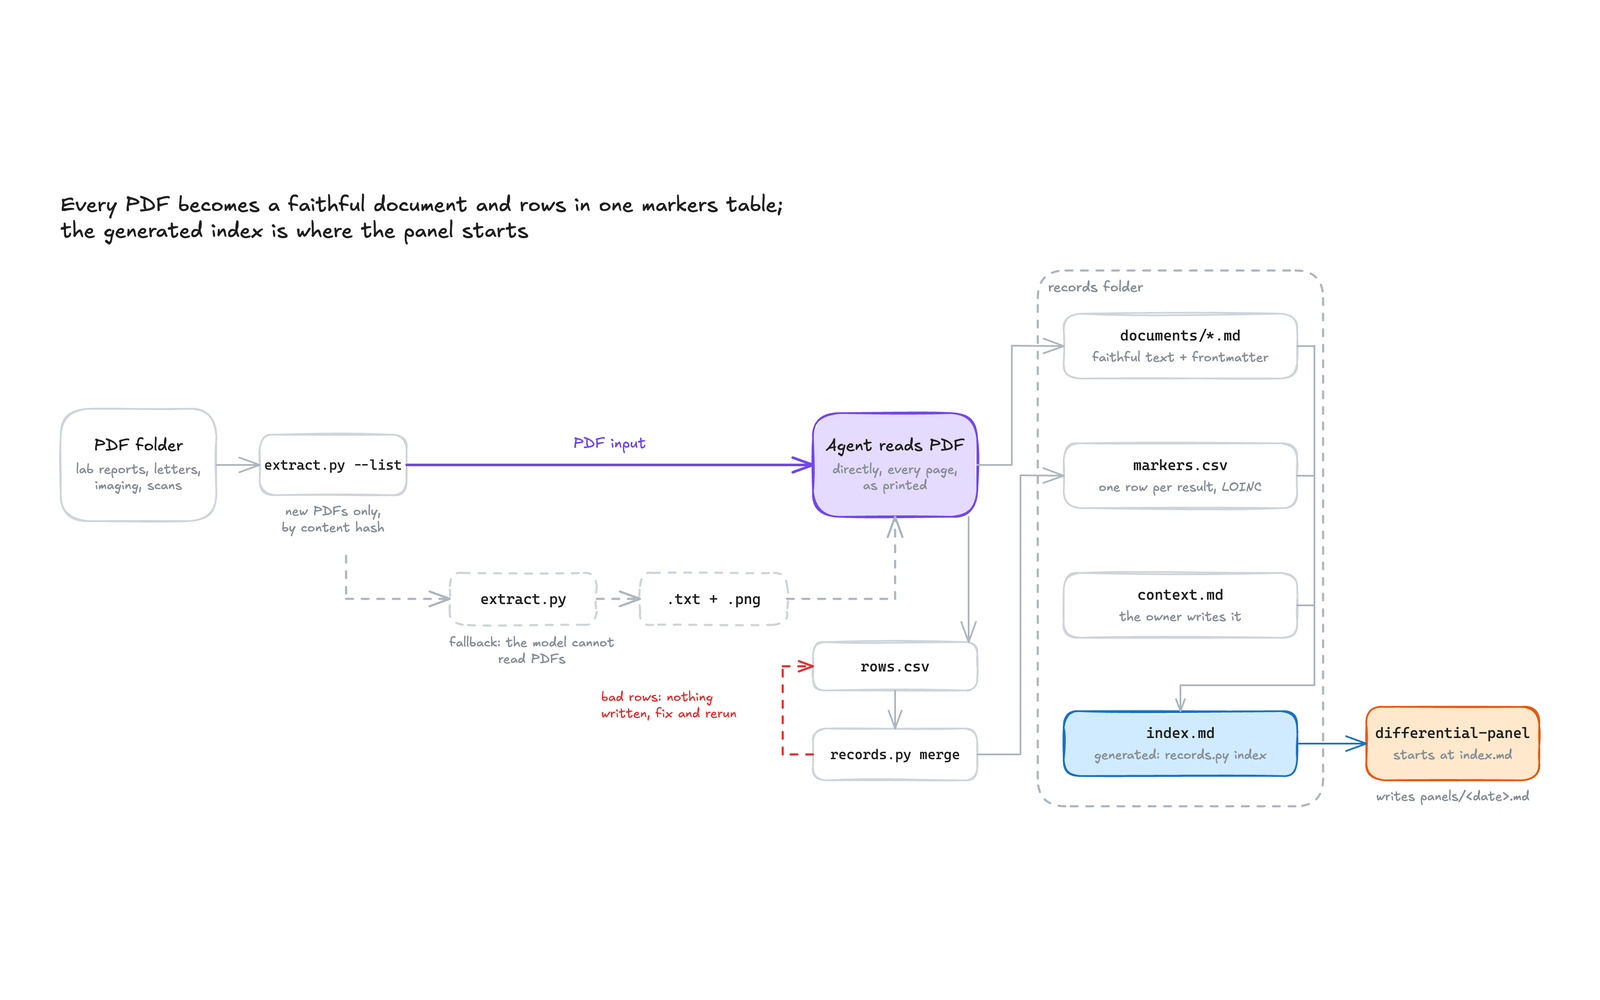
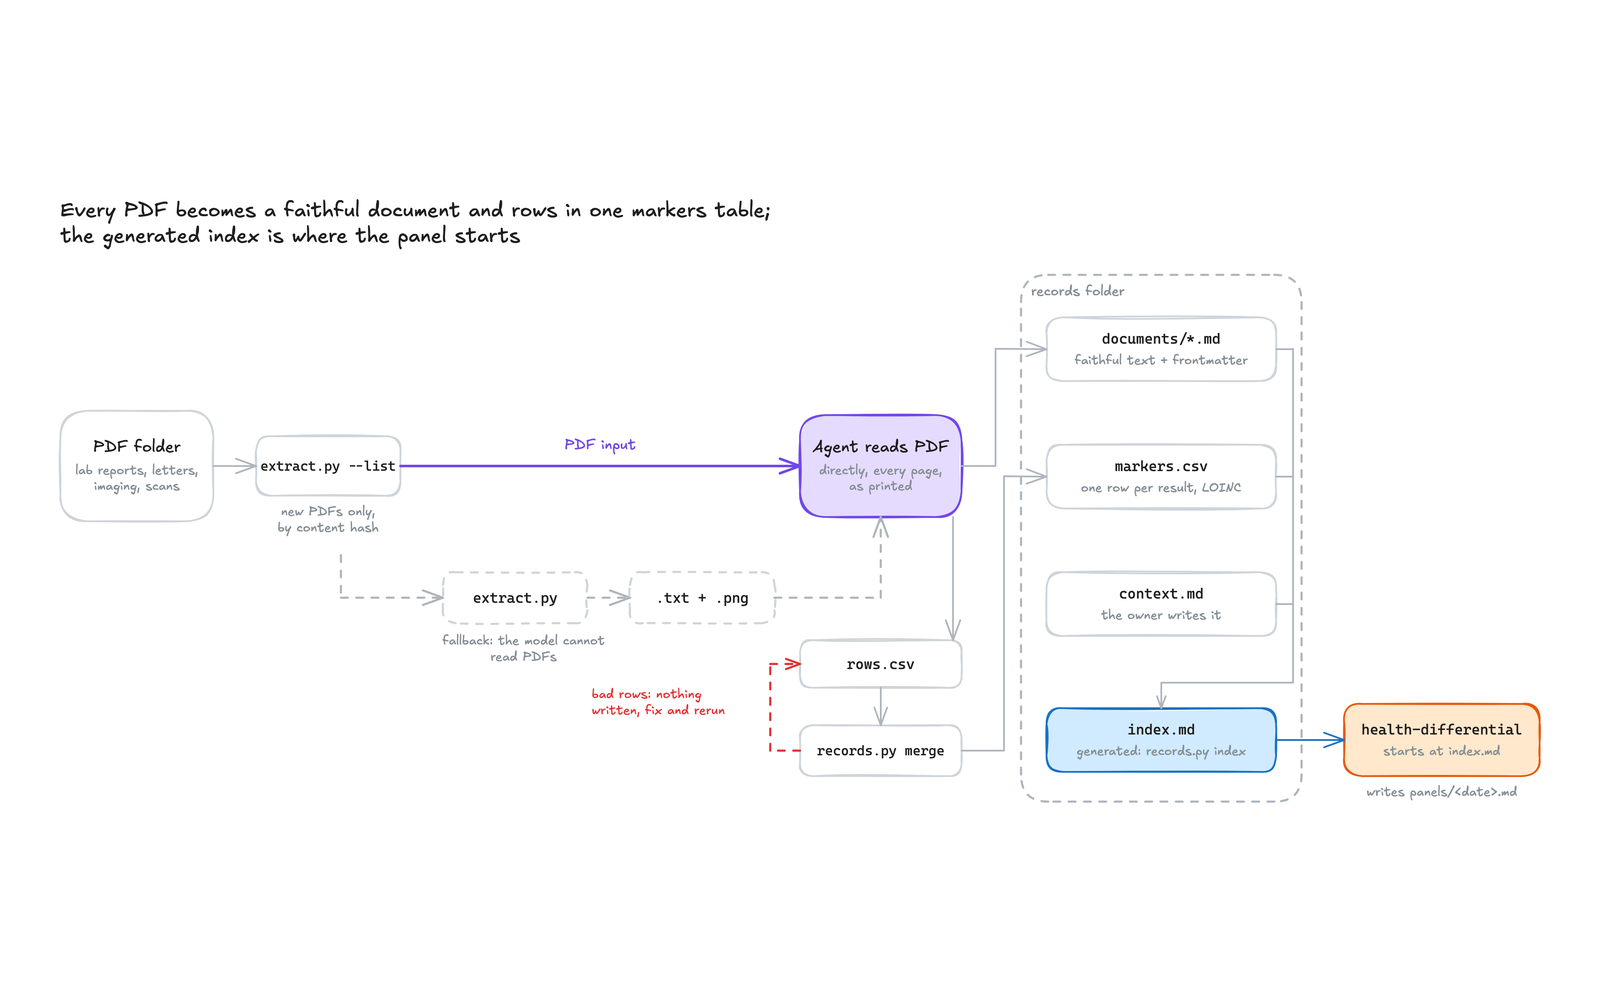
refactor: rename differential-panel to health-differential
Pairs it with health-records so the two health skills read as a set.

diff --git a/assets/diagrams/health.py b/assets/diagrams/health.py
@@ -1,7 +1,7 @@
-"""Generate the health-records and differential-panel figures as Excalidraw scenes.
+"""Generate the health-records and health-differential figures as Excalidraw scenes.
 
 Usage: python3 assets/diagrams/health.py
-Writes assets/health-records/pipeline.excalidraw and assets/differential-panel/panel.excalidraw.
+Writes assets/health-records/pipeline.excalidraw and assets/health-differential/panel.excalidraw.
 Render each to PNG as described in assets/diagrams/README.md.
 """
 
@@ -168,10 +168,10 @@ def pipeline():
         s.line([R(b), (fx + fw - 10, R(b)[1])], arrow=False)
     s.line([(fx + fw - 10, 177), (fx + fw - 10, 570), (T(idx)[0], 570), T(idx)], end=idx)
 
-    panel = s.card(1510, 595, 200, 85, "differential-panel", "starts at index.md", stroke=ORANGE,
+    panel = s.card(1510, 595, 230, 85, "health-differential", "starts at index.md", stroke=ORANGE,
                    fill=ORANGE_FILL, font=MONO, size=17)
     s.line([R(idx), L(panel)], BLUE, start=idx, end=panel)
-    s.text(1610, 690, "writes panels/<date>.md", 15, GREY, align="center")
+    s.text(1625, 690, "writes panels/<date>.md", 15, GREY, align="center")
     s.save(ASSETS / "health-records" / "pipeline.excalidraw")
 
 
@@ -241,7 +241,7 @@ def panel():
     s.line([B(rep), (1670, 620), (365, 620), B(brief)], BLUE, dashed=True, start=rep, end=brief)
     s.text(1018, 630, "next run: score each item confirmed, killed or still open;\nopen items join Already flagged",
            16, BLUE, align="center")
-    s.save(ASSETS / "differential-panel" / "panel.excalidraw")
+    s.save(ASSETS / "health-differential" / "panel.excalidraw")
 
 
 if __name__ == "__main__":

diff --git a/tests/health-records/test_health_records.py b/tests/health-records/test_health_records.py
@@ -307,7 +307,7 @@ def test_report_flag_disagreeing_with_range_is_kept_and_noted(records, tmp_path)
 def test_index_table_and_check(records, tmp_path):
     (records / "context.md").write_text("# Context\n")
     (records / "panels").mkdir()
-    (records / "panels" / "2025-06-01-differential-panel.md").write_text("# Panel\n")
+    (records / "panels" / "2025-06-01-health-differential.md").write_text("# Panel\n")
     run("records.py", "merge", records, stage(tmp_path / "a.csv", [
         {"original_name": "Ferritin", "value": v, "unit": "ug/l", "ref_range": "20-250", "date": d}
         for v, d in [("40", "2023-01-01"), ("31", "2024-01-01"), ("18", "2025-03-14")]
@@ -316,7 +316,7 @@ def test_index_table_and_check(records, tmp_path):
     index = (records / "index.md").read_text()
     assert "[context.md](context.md)" in index
     assert "| Ferritin | 18 L | ug/l | 20-250 | 2025-03-14 | 31 (2024-01-01); 40 (2023-01-01) | 3 | 1 |" in index
-    assert "(panels/2025-06-01-differential-panel.md)" in index
+    assert "(panels/2025-06-01-health-differential.md)" in index
     assert f"]({LETTER})" in index
 
     table = run("records.py", "table", records, "--name", "ferr").stdout

diff --git a/assets/diagrams/thumbs.py b/assets/diagrams/thumbs.py
@@ -15,7 +15,7 @@ FIGURES = {
     "hill-climb": ("score-steps.png", "pad"),
     "ui-climb": ("round.png", "pad"),
     "health-records": ("pipeline.png", "pad"),
-    "differential-panel": ("panel.png", "pad"),
+    "health-differential": ("panel.png", "pad"),
     "diagram-rebuild": ("loop.png", "pad"),
     "ios-app-cleanup": ("checklist.png", "top"),
 }

diff --git a/README.md b/README.md
@@ -57,8 +57,8 @@ Turn a diagram that exists only as an image into editable Excalidraw or <a href=
 Turn health PDFs, in any language, into faithful documents and a <code>markers.csv</code> of lab results for trends<br>Say <em>"add these lab results"</em>
 </td>
 <td width="50%" valign="top">
-<a href="./skills/differential-panel/"><img src="./assets/differential-panel/thumb.png" alt="differential-panel diagram"></a>
-<br><a href="./skills/differential-panel/"><strong><code>differential-panel</code></strong></a><br>
+<a href="./skills/health-differential/"><img src="./assets/health-differential/thumb.png" alt="health-differential diagram"></a>
+<br><a href="./skills/health-differential/"><strong><code>health-differential</code></strong></a><br>
 Three roles on models from two labs look for what your records have not flagged<br>Say <em>"run the panel"</em>
 </td>
 </tr>
@@ -89,11 +89,11 @@ Bulk-uninstall apps from a paired iPhone, picked from a checklist page with App 
 | ui-climb | ⭐ Recommended | 🌐 Two or more | `hill-climb` | Playwright for web, simulator tooling for native |
 | diagram-rebuild | ⭐ Recommended | One | [`diagram-design`](https://github.com/cathrynlavery/diagram-design) from cathrynlavery/diagram-design, for its `dd` track | `node`, `npm` and `python3`; its setup installs Playwright with Chromium, Excalidraw, React and esbuild into `~/.cache/diagram-rebuild` |
 | health-records | Not used | One that reads PDFs, or at least images | - | [`uv`](https://docs.astral.sh/uv/) |
-| differential-panel | ⭐ Recommended | 🌐 Two | `health-records` | [`uv`](https://docs.astral.sh/uv/) |
+| health-differential | ⭐ Recommended | 🌐 Two | `health-records` | [`uv`](https://docs.astral.sh/uv/) |
 | ios-app-cleanup | Not used | One | - | macOS with Xcode, `python3`, `curl`, and an iPhone paired with Developer Mode on |
 
 - 🔒 **Required**: the skill calls T3 Code's tools (`delegate_task`, `t3_thread_launch`, `t3_thread_read`, `t3_thread_send`, `schedule_task`) and does not run without them.
-- ⭐ **Recommended**: the skill uses T3 Code's tools when they are there and falls back to other harnesses. `hill-climb` builds candidates with Claude Code's `Agent`, another harness's subagents, or one at a time. `differential-panel` can run its seats with the labs' CLIs. `ui-climb` can score with lab CLIs (`codex exec`, `claude -p`, `gemini -p`) or API scripts. `diagram-rebuild` builds alone without subagents and runs its reviews through those CLIs.
+- ⭐ **Recommended**: the skill uses T3 Code's tools when they are there and falls back to other harnesses. `hill-climb` builds candidates with Claude Code's `Agent`, another harness's subagents, or one at a time. `health-differential` can run its seats with the labs' CLIs. `ui-climb` can score with lab CLIs (`codex exec`, `claude -p`, `gemini -p`) or API scripts. `diagram-rebuild` builds alone without subagents and runs its reviews through those CLIs.
 - 🌐 **Providers**: models from different labs share fewer defaults, so the skill needs access to models from that many providers. `council` reports a missing provider instead of substituting another model.
 
 </details>
@@ -110,14 +110,14 @@ npx skills add richard-better/agent-skills --skill council-debate
 
 Add `-g` to install globally instead of into the current project, and `-a <agent>` to target a specific agent (e.g. `claude-code`, `codex`).
 
-Install a skill's dependencies too: `ui-climb` with `hill-climb`, `differential-panel` with
+Install a skill's dependencies too: `ui-climb` with `hill-climb`, `health-differential` with
 `health-records`, `council-debate` with `council`, and `diagram-rebuild` with `diagram-design`:
 
 ```bash
 npx skills add richard-better/agent-skills --skill hill-climb
 npx skills add richard-better/agent-skills --skill ui-climb
 npx skills add richard-better/agent-skills --skill health-records
-npx skills add richard-better/agent-skills --skill differential-panel
+npx skills add richard-better/agent-skills --skill health-differential
 npx skills add t3dotgg/tstack --skill council
 npx skills add cathrynlavery/diagram-design
 ```

diff --git a/skills/health-differential/SKILL.md b/skills/health-differential/SKILL.md
@@ -1,9 +1,9 @@
 ---
-name: differential-panel
+name: health-differential
 description: Run a multi-model physician panel over a health records folder to find what the records have not already flagged. Use for "run the panel", "differential", "second look", "what are we missing", unexplained or multi-system symptoms, after new results land, or when a working diagnosis has stalled (a treatment trial failed, symptoms persist despite clean tests).
 ---
 
-# Differential panel
+# Health differential
 
 A virtual physician panel over one person's health records, modelled on Microsoft's MAI-DxO
 ("Sequential Diagnosis with Language Models", 2025). The gain in that work came from
@@ -31,7 +31,7 @@ The panel reads a folder in the `health-records` skill's layout. Run that skill 
 
 ## Output
 
-One file, `<records>/panels/YYYY-MM-DD-differential-panel.md`, with `-2`, `-3` added for a second
+One file, `<records>/panels/YYYY-MM-DD-health-differential.md`, with `-2`, `-3` added for a second
 run that day. Sections in this order:
 
 0. **Track record**: only when an earlier panel exists. For each of its New and Re-ranked items,
@@ -60,7 +60,7 @@ flagged list, so they are not reported as new a second time.
 ### 1. Case brief
 
 Read `index.md`, `context.md`, every document and `records.py table <records>`. Write
-`<scratch>/differential-panel/brief.md` with:
+`<scratch>/health-differential/brief.md` with:
 
 - **Demographics, medications and supplements**, with start and stop dates
 - **Problem list**: every active and recently closed problem, one line each
@@ -93,7 +93,7 @@ Every seat gets the same task, varying only its role and directory:
 ```
 You are the <ROLE> on a diagnostic panel. Your brief: <ROLE BRIEF>
 
-Read <scratch>/differential-panel/brief.md, then the records it summarises in <records>:
+Read <scratch>/health-differential/brief.md, then the records it summarises in <records>:
 index.md, context.md, documents/ and markers.csv. The brief is lossy; check the sources.
 Work read-only: the only file you write is <seat-dir>/answer.md.
 

diff --git a/skills/health-records/SKILL.md b/skills/health-records/SKILL.md
@@ -1,6 +1,6 @@
 ---
 name: health-records
-description: Turn health PDFs (lab reports, discharge letters, imaging and visit reports, scans, any language) into a records folder - one faithful Markdown file per document, a markers.csv of lab results with LOINC codes for trends, and an index. Use when adding or transcribing medical PDFs, tracking blood results over time, or preparing records for the differential-panel skill.
+description: Turn health PDFs (lab reports, discharge letters, imaging and visit reports, scans, any language) into a records folder - one faithful Markdown file per document, a markers.csv of lab results with LOINC codes for trends, and an index. Use when adding or transcribing medical PDFs, tracking blood results over time, or preparing records for the health-differential skill.
 ---
 
 # Health records
@@ -8,7 +8,7 @@ description: Turn health PDFs (lab reports, discharge letters, imaging and visit
 Builds and maintains a **records folder** from health PDFs. Each PDF becomes a **document**: a
 faithful Markdown transcription with frontmatter. Every lab result becomes one row of
 `markers.csv`, named consistently across labs and languages. `index.md` is generated from both
-and is where any reader, such as the `differential-panel` skill, starts.
+and is where any reader, such as the `health-differential` skill, starts.
 
 `<skill>` below is this skill's folder. Both scripts run with `uv run` and install their own
 dependencies.
@@ -24,7 +24,7 @@ dependencies.
   documents/
     2025-03-14_lab_example-lab.pdf    copy of the original
     2025-03-14_lab_example-lab.md     its transcription
-  panels/         differential-panel reports
+  panels/         health-differential reports
 ```
 
 Document basenames are `YYYY-MM-DD_<type>_<provider-slug>`, with `-2`, `-3` added when two share

diff --git a/assets/diagrams/README.md b/assets/diagrams/README.md
@@ -11,10 +11,10 @@ following the visual patterns in the `domi-tech-writing` skill.
 | `council-debate/debate` | What does debating add to a council? | decision-flow |
 | `outer-loop-t3/loops` | How does one thread keep the others moving? | nested loops |
 | `health-records/pipeline` | How does a PDF become a document and marker rows? | decision-flow |
-| `differential-panel/panel` | How do six seats turn into one report? | decision-flow |
+| `health-differential/panel` | How do six seats turn into one report? | decision-flow |
 | `diagram-rebuild/loop` | How does an image become source that passes review? | decision-flow |
 
-`climb.py` draws the climb figures, `health.py` the health-records and differential-panel
+`climb.py` draws the climb figures, `health.py` the health-records and health-differential
 figures, and `skills.py` the rest. `ui-climb/round` reuses every position from
 `hill-climb/round`, so keep the two in step by editing `round_flow()` only.
 

diff --git a/skills/health-differential/README.md b/skills/health-differential/README.md
@@ -1,10 +1,10 @@
-# Differential panel
+# Health differential
 
 A second look at your health records by a panel of models, modelled on Microsoft's MAI-DxO.
 It looks for what the records have not already flagged: patterns across specialties,
 drift inside reference ranges, follow-ups that dropped, diagnoses that stalled.
 
-![Panel roles and rounds](../../assets/differential-panel/panel.png)
+![Panel roles and rounds](../../assets/health-differential/panel.png)
 
 ## How it works
 
@@ -27,7 +27,7 @@ content goes to each model's provider.
 
 ```bash
 npx skills add richard-better/agent-skills --skill health-records
-npx skills add richard-better/agent-skills --skill differential-panel
+npx skills add richard-better/agent-skills --skill health-differential
 ```
 
 Runs best in T3 Code, whose `delegate_task` puts each seat on its model; elsewhere it uses the

diff --git a/skills/health-records/README.md b/skills/health-records/README.md
@@ -19,7 +19,7 @@ LOINC code, so ferritin from three labs in two languages reads as one trend.
    analytes (English, Hungarian and German names) and the folder's own aliases, computes flags
    from reference ranges, and merges it. Rerunning on the same document replaces its rows.
 4. `records.py index` regenerates `index.md`: every document, and the latest value of every
-   analyte with its history. The [`differential-panel`](../differential-panel/) skill starts there.
+   analyte with its history. The [`health-differential`](../health-differential/) skill starts there.
 
 Reruns over the same PDF folder only pick up new files.
 
